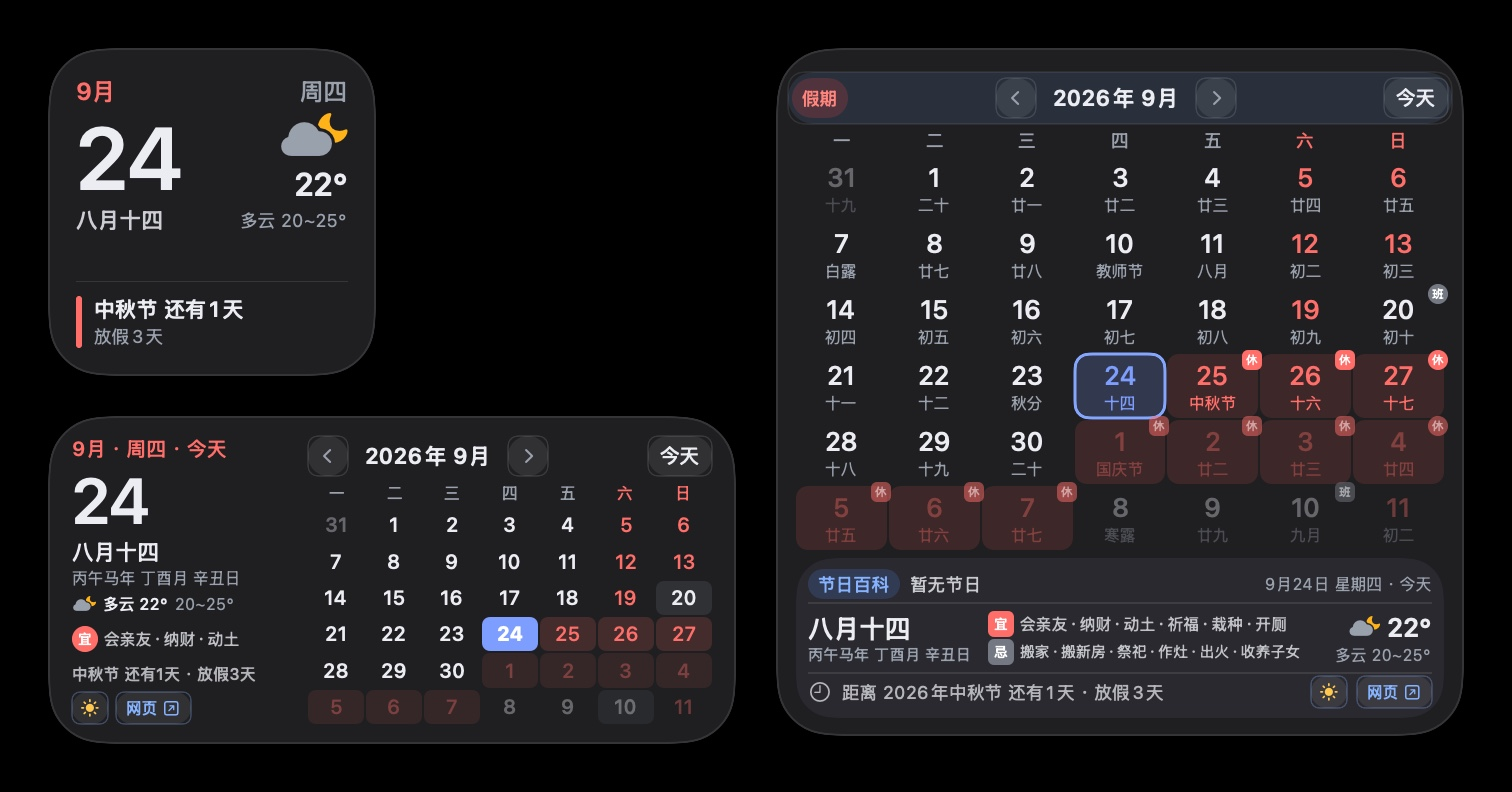
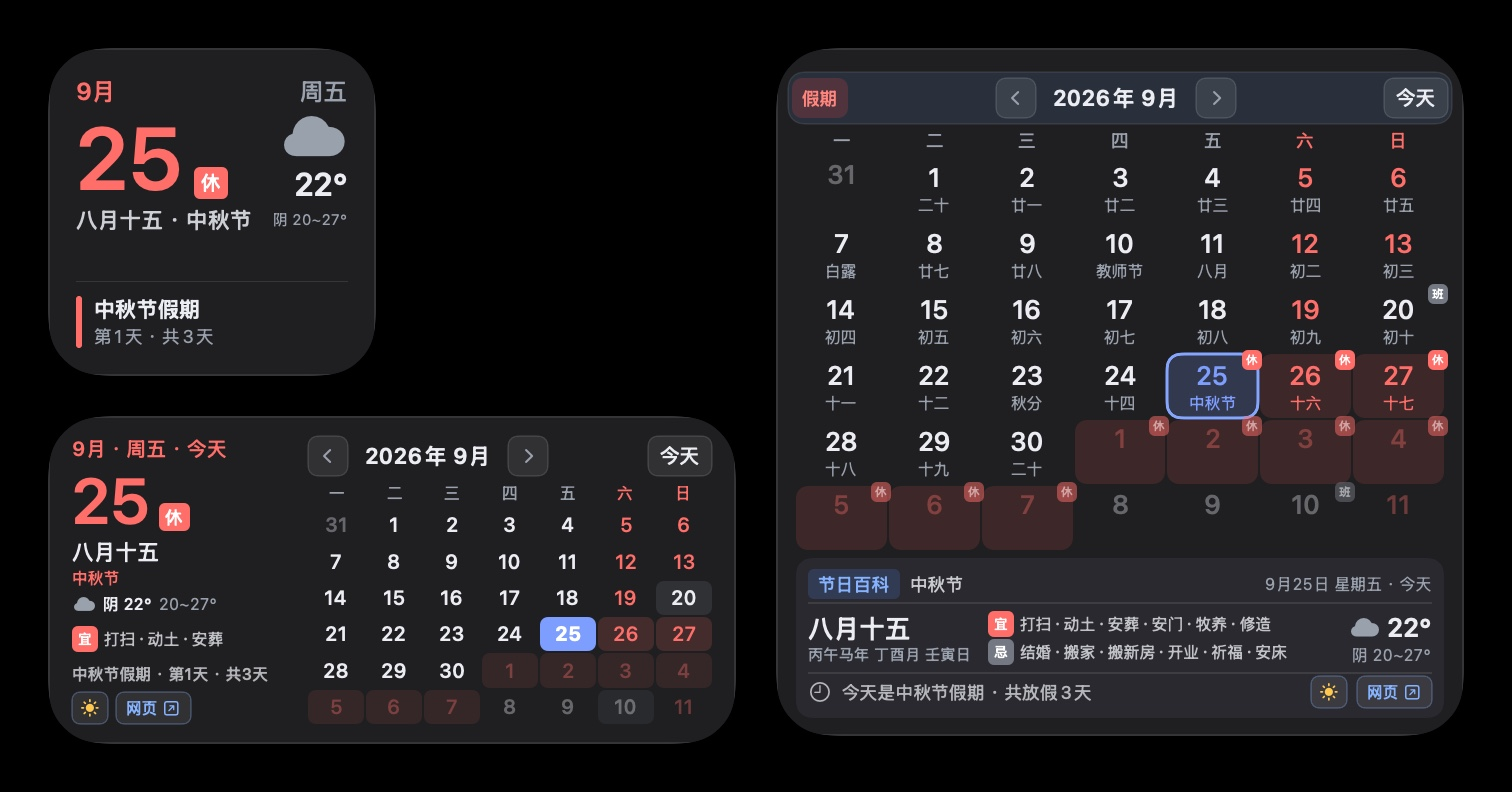
Make adjacent-month dates tappable instead of opening the web page

diff --git a/Sources/CalendarWidget.swift b/Sources/CalendarWidget.swift
@@ -882,7 +882,7 @@ private struct CalendarWidgetView: View {
         }
     }
 
-    private func dayCell(key: WidgetDateKey, month: WidgetDateKey) -> some View {
+    private func dayCell(key: WidgetDateKey, month: WidgetDateKey) -> AnyView {
         let theme = self.theme
         let day = entry.days[key]
         let status = day?.status
@@ -896,6 +896,40 @@ private struct CalendarWidgetView: View {
         let fill: Color? = isToday
             ? theme.todayFill
             : (status == .rest ? theme.restFill : nil)
+
+        // 上下月的日期也可点击，为控制渲染耗时省掉农历小字，只保留数字与休/班角标。
+        guard inCurrentMonth else {
+            return AnyView(
+                selectable(
+                    Text("\(key.day)")
+                        .font(.system(size: 13, weight: .medium))
+                        .foregroundStyle(numberColor.opacity(fadedOpacity))
+                        .frame(maxWidth: .infinity)
+                        .frame(height: 30, alignment: .top)
+                        .padding(.vertical, 1)
+                        .background {
+                            if let fill {
+                                RoundedRectangle(cornerRadius: 6, style: .continuous).fill(fill)
+                            }
+                        }
+                        .overlay(alignment: .topTrailing) {
+                            if let status {
+                                Text(status == .rest ? "休" : "班")
+                                    .font(.system(size: 6, weight: .medium))
+                                    .foregroundStyle(theme.onBadge)
+                                    .padding(.horizontal, 2)
+                                    .padding(.vertical, 1)
+                                    .background(status == .rest ? theme.holiday : theme.workBadge)
+                                    .clipShape(RoundedRectangle(cornerRadius: 3, style: .continuous))
+                                    .opacity(0.5)
+                                    .offset(x: 2, y: -2)
+                            }
+                        }
+                        .contentShape(Rectangle()),
+                    key: key
+                )
+            )
+        }
 
         let cell = VStack(spacing: 1) {
             Text("\(key.day)")
@@ -942,7 +976,7 @@ private struct CalendarWidgetView: View {
         }
         .contentShape(Rectangle())
 
-        return selectable(cell, key: key, enabled: inCurrentMonth)
+        return AnyView(selectable(cell, key: key))
     }
 
     // MARK: - 中号
@@ -1093,7 +1127,7 @@ private struct CalendarWidgetView: View {
             .widgetAccentable(status == .rest && !isToday)
             .contentShape(Rectangle())
 
-        return selectable(cell, key: key, enabled: inCurrentMonth)
+        return selectable(cell, key: key)
     }
 
     // MARK: - 小号
@@ -1280,15 +1314,11 @@ private struct CalendarWidgetView: View {
             .widgetAccentable(status == .rest)
     }
 
-    /// 每个按钮都会显著增加点击后的渲染时间，淡灰色的上下月日期不做成按钮。
-    @ViewBuilder
-    private func selectable<Cell: View>(_ cell: Cell, key: WidgetDateKey, enabled: Bool) -> some View {
-        if enabled {
-            Button(intent: SelectDateIntent(date: key)) { cell }
-                .buttonStyle(.plain)
-        } else {
-            cell
-        }
+    /// 上下月的淡灰色日期同样可点击，点后切到所在月份并选中；
+    /// 否则点击会落到整块组件的 widgetURL 上直接打开网页，容易让人误解。
+    private func selectable<Cell: View>(_ cell: Cell, key: WidgetDateKey) -> some View {
+        Button(intent: SelectDateIntent(date: key)) { cell }
+            .buttonStyle(.plain)
     }
 
     private func almanacLine(tag: String, text: String, color: Color) -> some View {

diff --git a/README.md b/README.md
@@ -151,7 +151,7 @@ pluginkit -mAv | grep desktopcalendar
 
 **点击后要约半秒才有变化**
 
-桌面小组件的每次点击都要经过系统服务转发给扩展，重新生成时间线并渲染后才会显示，这是 WidgetKit 的机制，无法做到普通 App 那样即时响应。为了缩短渲染时间，上下月的淡灰色日期不可点击，请用左右箭头切换月份。
+桌面小组件的每次点击都要经过系统服务转发给扩展，重新生成时间线并渲染后才会显示，这是 WidgetKit 的机制，无法做到普通 App 那样即时响应。
 
 ## 声明
 
